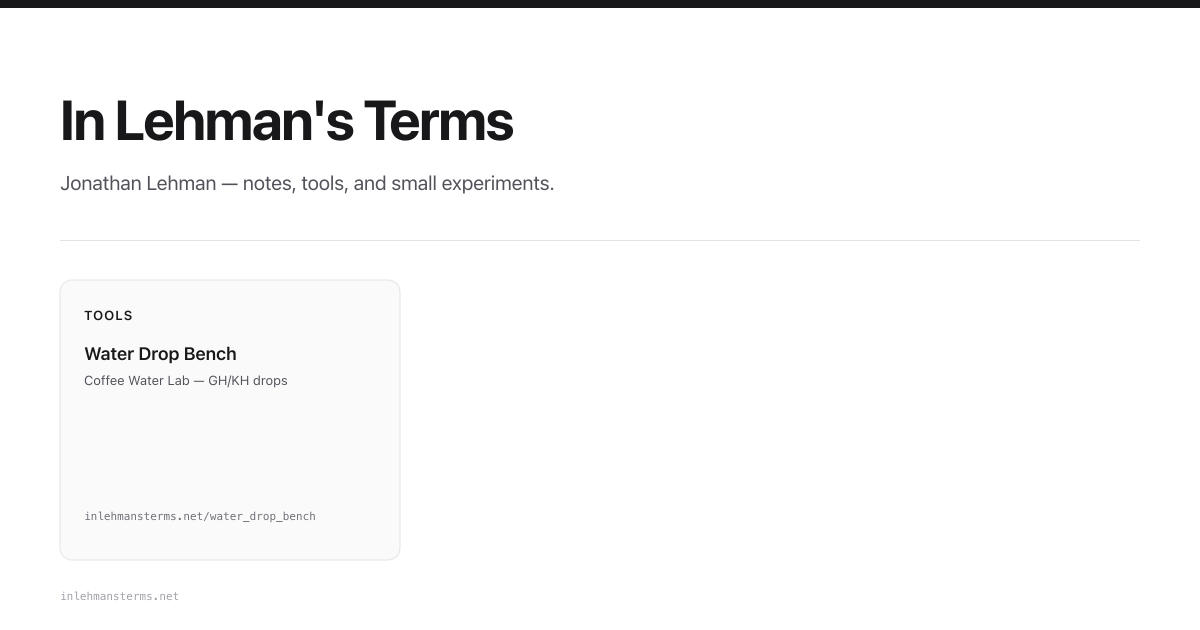
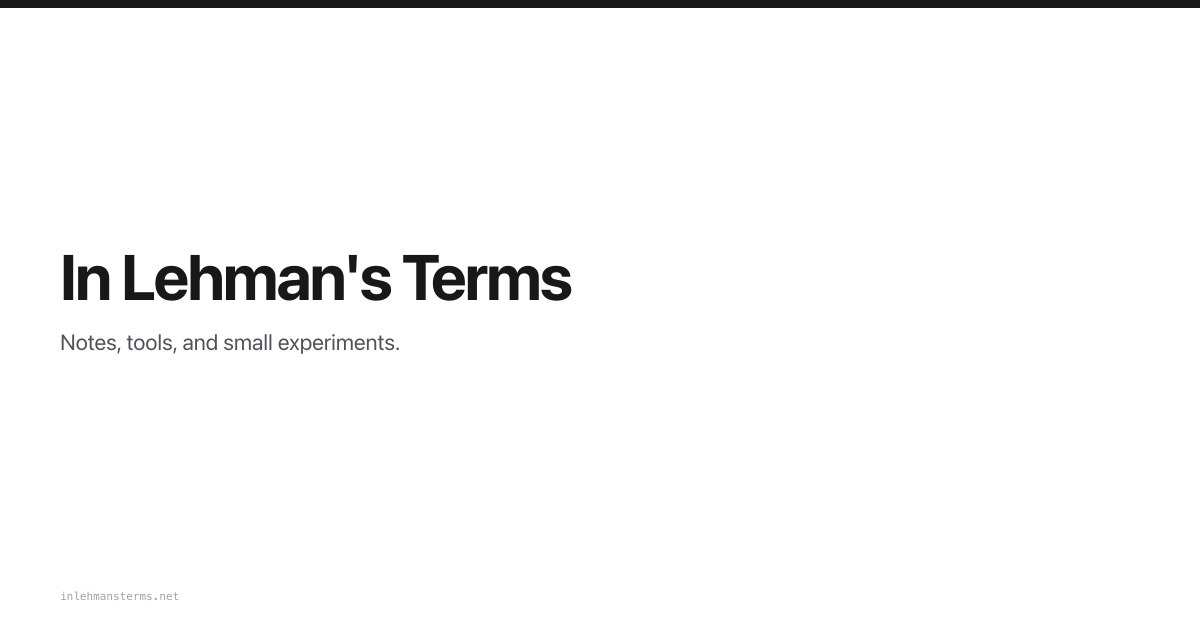
fix: hub og generic — In Lehman's Terms only
- index.html: og:description generic, no app mention
- public/og.svg/png: very generic hub card (no Water Drop Bench tile)

diff --git a/index.html b/index.html
@@ -4,18 +4,18 @@
     <meta charset="UTF-8" />
     <meta name="viewport" content="width=device-width, initial-scale=1.0" />
     <title>In Lehman's Terms</title>
-    <meta name="description" content="Jonathan Lehman — notes, tools, and small experiments. A minimal hub; each tool lives in its own repo." />
+    <meta name="description" content="In Lehman's Terms — notes, tools, and small experiments." />
     <meta property="og:site_name" content="In Lehman's Terms" />
     <meta property="og:type" content="website" />
     <meta property="og:url" content="https://inlehmansterms.net/" />
     <meta property="og:title" content="In Lehman's Terms" />
-    <meta property="og:description" content="Notes, tools, and small experiments — Water Drop Bench and more." />
+    <meta property="og:description" content="Notes, tools, and small experiments." />
     <meta property="og:image" content="https://inlehmansterms.net/og.png" />
     <meta property="og:image:width" content="1200" />
     <meta property="og:image:height" content="630" />
     <meta name="twitter:card" content="summary_large_image" />
     <meta name="twitter:title" content="In Lehman's Terms" />
-    <meta name="twitter:description" content="Notes, tools, and small experiments — Water Drop Bench and more." />
+    <meta name="twitter:description" content="Notes, tools, and small experiments." />
     <meta name="twitter:image" content="https://inlehmansterms.net/og.png" />
     <link rel="icon" type="image/svg+xml" href="/favicon.svg" />
   </head>
